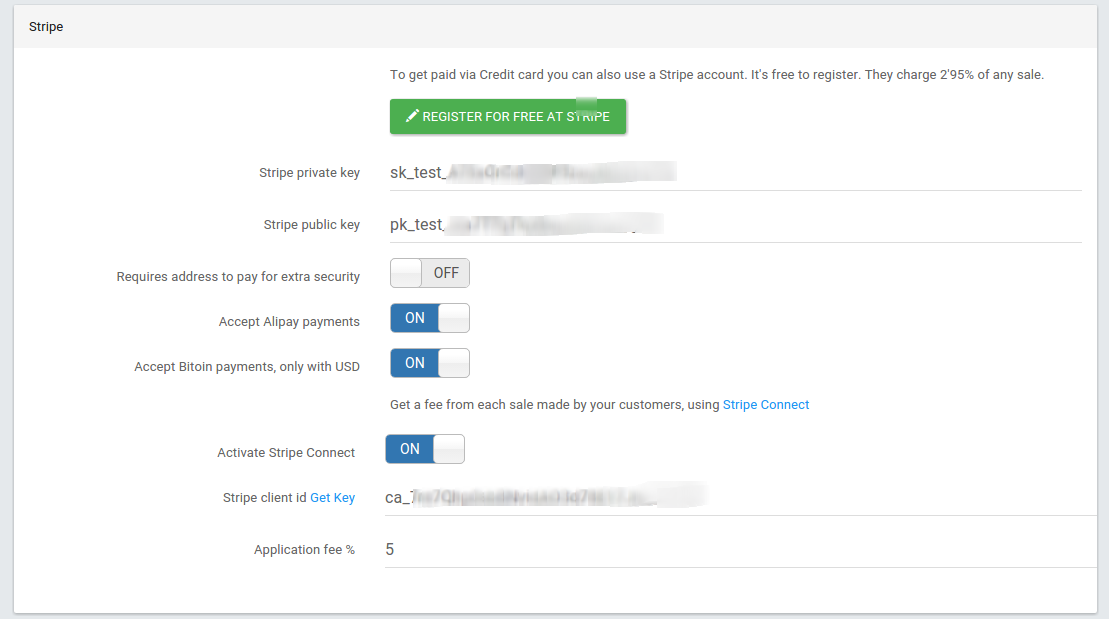
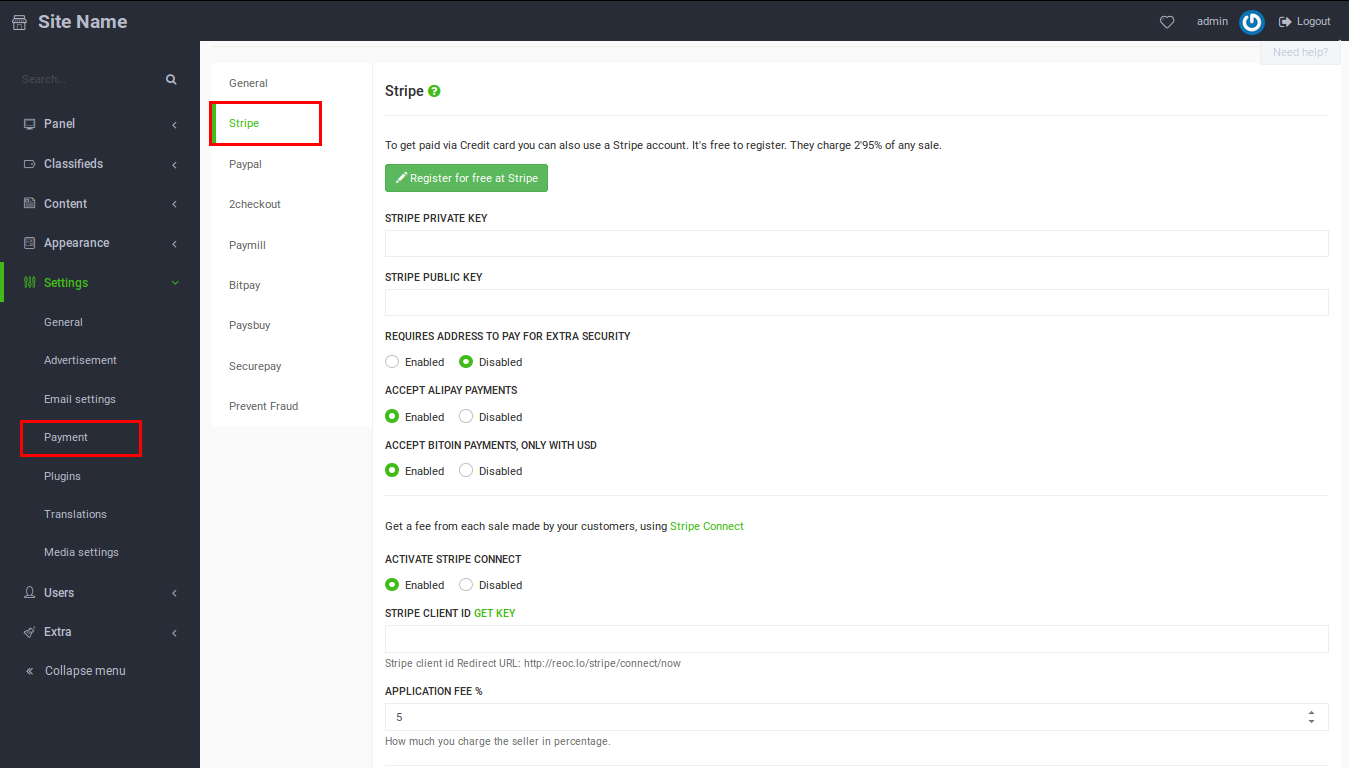
new panel

diff --git a/how-to-earn-money.md b/how-to-earn-money.md
@@ -7,7 +7,7 @@ permalink: /how-to-earn-money/
 ---
 Open Classifieds offers you a few features that will help you to **monetize your website**. Here is an overview of some of the options that will make possible to **start to earn money with your classifieds**.
 
-Read more how to **[activate the PayPal option]({{ site.baseurl }}/pay-directly-from-ad).**
+Read more how to **[activate the Buy Now button]({{ site.baseurl }}/pay-directly-from-ad).**
 
 ### Pay to post
 
@@ -17,8 +17,9 @@ Go to **Admin Panel** and choose **Settings > General**.
 
 In the field **Moderation** choose the way ads will be published. To earn money you can choose **Payment On** \- then whenever someone wants to post ad on your page, he will be asked to pay. You can also choose **Payment with moderation** \- user will pay for publishing the ad, but still you have a possibility to moderate the ad before it becomes visible on your site.
 
-![How to earn money with your classifieds](//open-classifieds.com/wp-content/uploads/2013/08/How-to-earn-money-with-your-classifieds.png)
-
+<a href="//docs.yclas.com/images/earn-money.png" class="thumbnail gallery-item" data-gallery>
+![How to earn money with your classifieds](//docs.yclas.com/images/earn-money.png)
+</a>
 
 You can also choose **some categories** where your user will have to pay for posting, while **in others it will be for free**. For that go to **Panel > Classifieds > Categories**, choose the ones that will be paid and hit **Edit**. In the last field of the form write the price for posting in this category and click **Submit**. You may also need to **delete the cache**. (Read more: [How to add categories and manage them?]({{ site.baseurl }}/how-to-add-categories) )
 
@@ -32,10 +33,11 @@ To **activate/deactivate** the option of featuring the ad choose **ON/OFF** in t
 
 To **activate/deactivate** option of bringing ad to the top choose **ON/OFF** in the **Bring to top Ad** field. Then set the **price** that users have to pay to refresh their listing.
 
-Keep in mind that for the price of Featured Ads and Bring to Top Ad features you can use a different currency than your users ads price currency. You can pick the currency on Settings -> Payment, [Site Currency](http://docs.yclas.com/setup-payment-gateways/). 
+Keep in mind that for the price of Featured Ads and Bring to Top Ad features you can use a different currency than your users ads price currency. You can pick the currency on Settings -> Payment, [Payment Currency](http://docs.yclas.com/setup-payment-gateways/). 
 
-
-![How to earn money with your classifieds 2](//open-classifieds.com/wp-content/uploads/2013/08/How-to-earn-money-with-your-classifieds-2.png)
+<a href="//docs.yclas.com/images/payment-currency.png" class="thumbnail gallery-item" data-gallery>
+![How to earn money with your classifieds 2](//docs.yclas.com/images/payment-currency.png)
+</a>
 
 ### Advertising banners
 
@@ -43,7 +45,9 @@ Another option of earning with your site is to **include commercial banners with
 
 With placing banner on your site our **widgets** could be useful (see: [Overview of widgets]({{ site.baseurl }}/overview-of-widgets)). For example in the widget **Text** you can put HTML of a banner like here in our [demo](http://open-classifieds.com/demo/):
 
+<a href="//open-classifieds.com/wp-content/uploads/2013/08/text-widget.png" class="thumbnail gallery-item" data-gallery>
 ![text widget](//open-classifieds.com/wp-content/uploads/2013/08/text-widget.png)
+</a>
 
 You could also check our guide on **[6 simple ways to make money with a classifieds website](http://open-classifieds.com/2014/01/09/6-simple-ways-make-money-classifieds-website/).**
 

diff --git a/pay-directly-from-ad.md b/pay-directly-from-ad.md
@@ -11,9 +11,9 @@ Did you know that sellers posting ads about their products in your classifieds a
 
 It works under **4 conditions**:
 
-1. As an admin you have to activate the option. In **Admin Panel** go to **Settings > Payment**. In the last field **User Paypal link** set **ON**.
+1. As an admin you have to activate the option. In **Admin Panel** go to **Settings -> Payment -> PayPal**. In the last field **Buy Now Button** set **Enabled**.
 
-2. Email submitted by the user while registration has to be the **Paypal email address** connected with the sellers account.
+2. Email submitted by the user while registration has to be the **Paypal email address** connected with the sellers account. If you want users to be able to use a different email for their PayPal account, follow [this guide](http://docs.yclas.com/paypal-email-for-sellers/).
 
 3. Seller while posting an ad has to set the **price** in the 'Price' field. 
 
@@ -23,16 +23,22 @@ Note it is only possible if the **'Price'** field is active - to choose which fi
 
 If all condition are met, an option will appear next to the published advertisement to pay for a product immediately. Payment can be done through **Paypal account or with a credit card**.
 
-![How to pay directly from the ad option](//open-classifieds.com/wp-content/uploads/2013/09/How-to-pay-directly-from-the-ad-option.png)
+<a href="//docs.yclas.com/images/buy-now.png" class="thumbnail gallery-item" data-gallery>
+![Buy now button](//docs.yclas.com/images/buy-now.png)
+</a>
 
 ### Limiting stock amount
 
 Let's say a user has a limited stock amount of the product he's selling, and he doesn't want to get more payments than the number of products that he has. To enable that you need to have every condition met in the above section, and you need to have one more option enabled:
 
-1. Log in to your **Admin Panel** 
-2. Go to **Settings** > **Payment** 
-3. Set **Stock control** to **ON** 
-4. Press **Save**
+1. Log in to your **Admin Panel**.
+2. Go to **Settings** > **Payment** > **General**. 
+3. Set **Stock Control** to **ON**. 
+4. Press **Save**.
+
+<a href="//docs.yclas.com/images/stock-control.png" class="thumbnail gallery-item" data-gallery>
+![Buy now button](//docs.yclas.com/images/stock-control.png)
+</a>
 
 Once you do this, your users will have the option to set a counter on their products. This counter goes down on each Paypal payment they receive. And once the counter is "O" their ad will be deactivated.
 

diff --git a/setup-payment-gateways.md b/setup-payment-gateways.md
@@ -5,12 +5,14 @@ categories: Payment
 tags: [Payment]
 permalink: /setup-payment-gateways/
 ---
+<a href="//docs.yclas.com/images/payment-gateway.png" class="thumbnail gallery-item" data-gallery>
 ![payment gateways](//docs.yclas.com/images/payment-gateway.png)
+</a>
 
 <br>
 Let's first go through the payment settings we have here, of course you can access payment settings by logging into your admin panel ![khod wo 3a6i](http://i0.wp.com/open-classifieds.com/wp-content/uploads/2013/08/khod-wo-3a6i.png?resize=42%2C38) then going to **Settings** > **Payment** :
 
-+ **Site currency:** Pick the currency you want to get paid with. Make sure that your chosen Payment Gateway supports that currency!
++ **Payment Currency:** Pick the currency you want to get paid with. Make sure that your chosen Payment Gateway supports that currency!
 + **Featured ads:** Turn On or Off the option to feature ad.
 + **Featured Plans:** This feature allows you to give users the option to select between different length of the featured of their ad and pay according to your plans. Follow [this guide]({{ site.baseurl }}/how-to-create-featured-plan) for more.
 + **Bring to top Ad:** Turn On or Off the option to bring an ad to top of the list.

diff --git a/configure-elasticemail-open-classifieds.md b/configure-elasticemail-open-classifieds.md
@@ -12,11 +12,13 @@ As we have posted in our **[blog](http://open-classifieds.com/2014/02/12/elastic
 Here are the simple steps you need to do to have it integrated into your website: 
 
 1. Set up an **[ElasticEmail](http://j.mp/elasticemailoc)** account 
-2. Go to your panel, **Settings** -> **Email**, switch **ElasticEmail active** **ON**.
+2. Go to your panel, **Settings** -> **Email** -> **ElasticEmail**, switch **ElasticEmail** to **Enabled**.
 3. Enter your account email address in **API Key** field and your account password in **Public Account ID**. You can find these details in your ElasticEmail account https://elasticemail.com/account#/settings -> SMTP/API. 
 4. Press **Save**.
 
+<a href="//docs.yclas.com/images/elasticemail.png" class="thumbnail gallery-item" data-gallery>
 ![How to Configure Elastic Email on Open Classifieds](//docs.yclas.com/images/elasticemail.png) 
+</a>
 
 Now every e-mail you send using OC admin panel will be sent through your ElasticEmail account. 
 

diff --git a/SMTP-configuration.md b/SMTP-configuration.md
@@ -5,10 +5,10 @@ categories: Email
 tags: Email
 permalink: /smtp-configuration/
 ---
-If you prefer to have your mail sent out via a different SMTP server than your hosting, you can use this option. What you have to do is to go to your panel, **Settings** -> **Email** and specify or enable:
+If you prefer to have your mail sent out via a different SMTP server than your hosting, you can use this option. What you have to do is to go to your panel, **Settings** -> **Email Settings** -> **SMTP Configuration** and specify or enable:
 
 + **Smtp active**: Enable this to activate SMTP
-+ **Smtp ssl**: Enable if the SMTP connection needs to occur over ssl
++ **Smtp Secure**: Enable if the SMTP connection needs to occur over ssl
 + **Smtp host**
 + **Smtp port**
 + **Smtp auth**: If SMTPAuth should be used

diff --git a/stripe-connection.md b/stripe-connection.md
@@ -40,8 +40,13 @@ You (site owner) set your site to get 3% commission for each sale made via your 
 7. Set the percentage fee if you want to charge your customers
 8. Click **Save**, ready ;) 
 
+<a href="//docs.yclas.com/images/stripe.png" class="thumbnail gallery-item" data-gallery>
 ![stripe dashboard]({{ site.baseurl }}/images/stripe.png)
+</a>
+
+<a href="//docs.yclas.com/images/stripe1.png" class="thumbnail gallery-item" data-gallery>
 ![stripe oc-panel]({{ site.baseurl }}/images/stripe1.png)
+</a>
 
 ### User configuration
 

diff --git a/2checkout-configuration.md b/2checkout-configuration.md
@@ -18,7 +18,9 @@ Now, you have to follow these instructions:
 
 Login to your website as admin, go to **Settings** -> **Payment**, **2checkout** and fill **Account Number** and **Secret Word** fields. You can find these values in your 2checkout dashboard (see the image below).
 
+<a href="//docs.yclas.com/images/2co.jpg" class="thumbnail gallery-item" data-gallery>
 ![2co](//docs.yclas.com/images/2co.jpg)
+</a>
 
 <br>
 **Related posts:**
